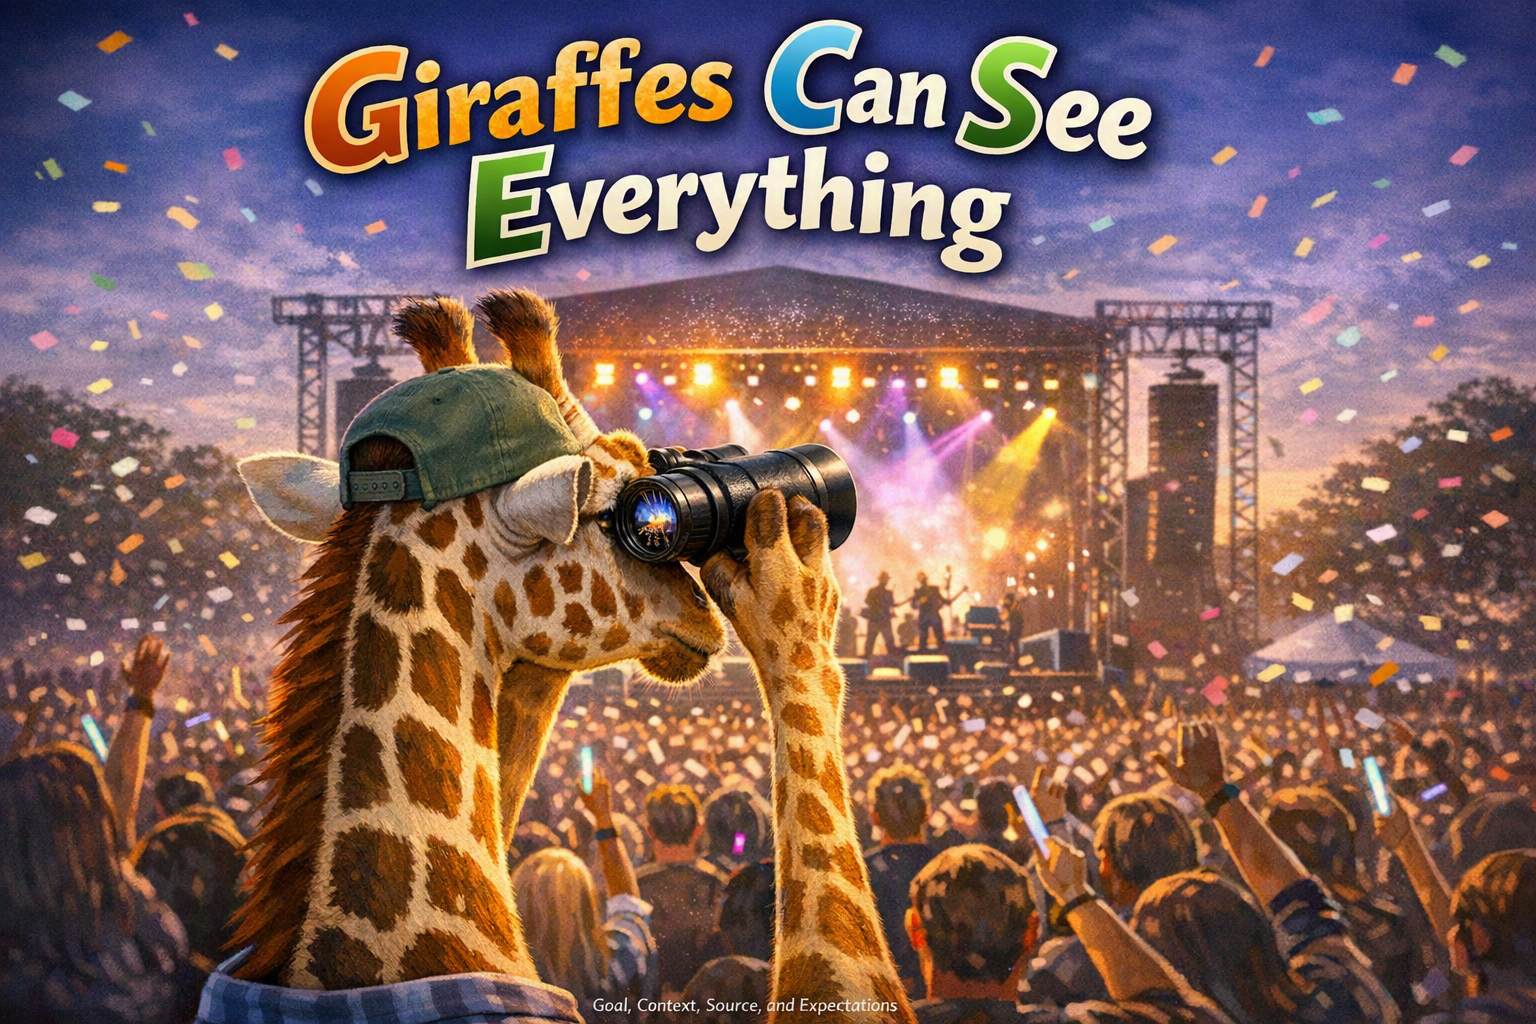
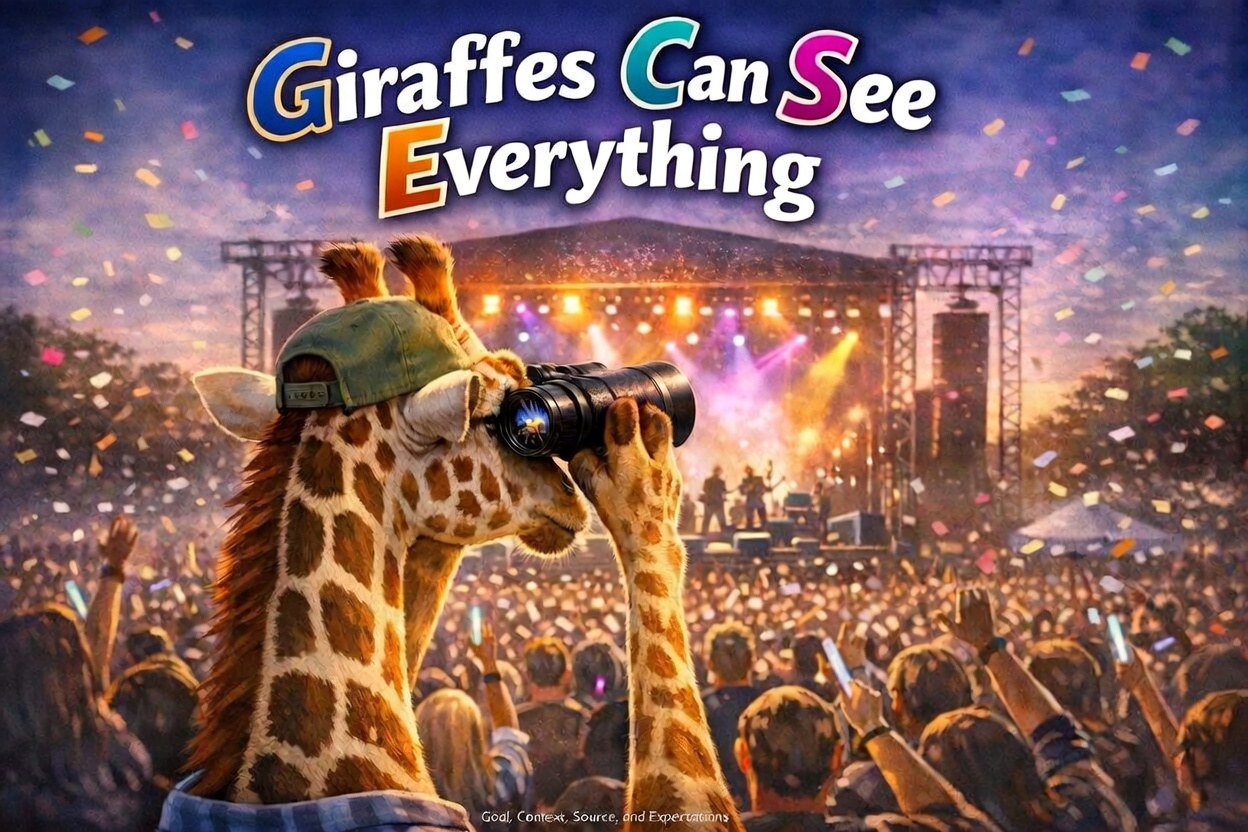
Update GCSE image and add it to Trainer docs
- Replaced gcse-prompt-ingredients.png with new Giraffes Can See Everything concert image
- Added GCSE mnemonic image to Trainer training10, training11, and training12 GCSE sections
  (user docs already had the image reference)

diff --git a/Trainer/training10/index.html b/Trainer/training10/index.html
@@ -287,6 +287,15 @@
                 <div class="section-card-body">
                     <p>To get the best response, focus on four key elements when phrasing your prompts.
                         The <strong>GCSE</strong> framework:</p>
+
+                    <a href="../../images/gcse-prompt-ingredients.png" target="_blank">
+                        <img src="../../images/gcse-prompt-ingredients.png"
+                            alt="Giraffes Can See Everything — Goal, Context, Source, and Expectations"
+                            style="max-width:180px;border-radius:var(--radius-md);margin:var(--sp-4) 0;cursor:pointer;box-shadow:var(--shadow-sm);transition:transform .15s;" />
+                    </a>
+                    <p style="font-size:.8rem;color:var(--text-muted);margin-top:0;">Here is a mnemonic to help you
+                        remember the four elements.</p>
+
                     <table class="data-table">
                         <thead>
                             <tr>

diff --git a/Trainer/training11/index.html b/Trainer/training11/index.html
@@ -301,6 +301,15 @@
                 <div class="section-card-body">
                     <p>To get the best response, focus on four key elements when phrasing your prompts.
                         The <strong>GCSE</strong> framework:</p>
+
+                    <a href="../../images/gcse-prompt-ingredients.png" target="_blank">
+                        <img src="../../images/gcse-prompt-ingredients.png"
+                            alt="Giraffes Can See Everything — Goal, Context, Source, and Expectations"
+                            style="max-width:180px;border-radius:var(--radius-md);margin:var(--sp-4) 0;cursor:pointer;box-shadow:var(--shadow-sm);transition:transform .15s;" />
+                    </a>
+                    <p style="font-size:.8rem;color:var(--text-muted);margin-top:0;">Here is a mnemonic to help you
+                        remember the four elements.</p>
+
                     <table class="data-table">
                         <thead>
                             <tr>

diff --git a/Trainer/training12/index.html b/Trainer/training12/index.html
@@ -308,6 +308,15 @@
                 <div class="section-card-body">
                     <p>To get the best response, focus on four key elements when phrasing your prompts.
                         The <strong>GCSE</strong> framework:</p>
+
+                    <a href="../../images/gcse-prompt-ingredients.png" target="_blank">
+                        <img src="../../images/gcse-prompt-ingredients.png"
+                            alt="Giraffes Can See Everything — Goal, Context, Source, and Expectations"
+                            style="max-width:180px;border-radius:var(--radius-md);margin:var(--sp-4) 0;cursor:pointer;box-shadow:var(--shadow-sm);transition:transform .15s;" />
+                    </a>
+                    <p style="font-size:.8rem;color:var(--text-muted);margin-top:0;">Here is a mnemonic to help you
+                        remember the four elements.</p>
+
                     <table class="data-table">
                         <thead>
                             <tr>
